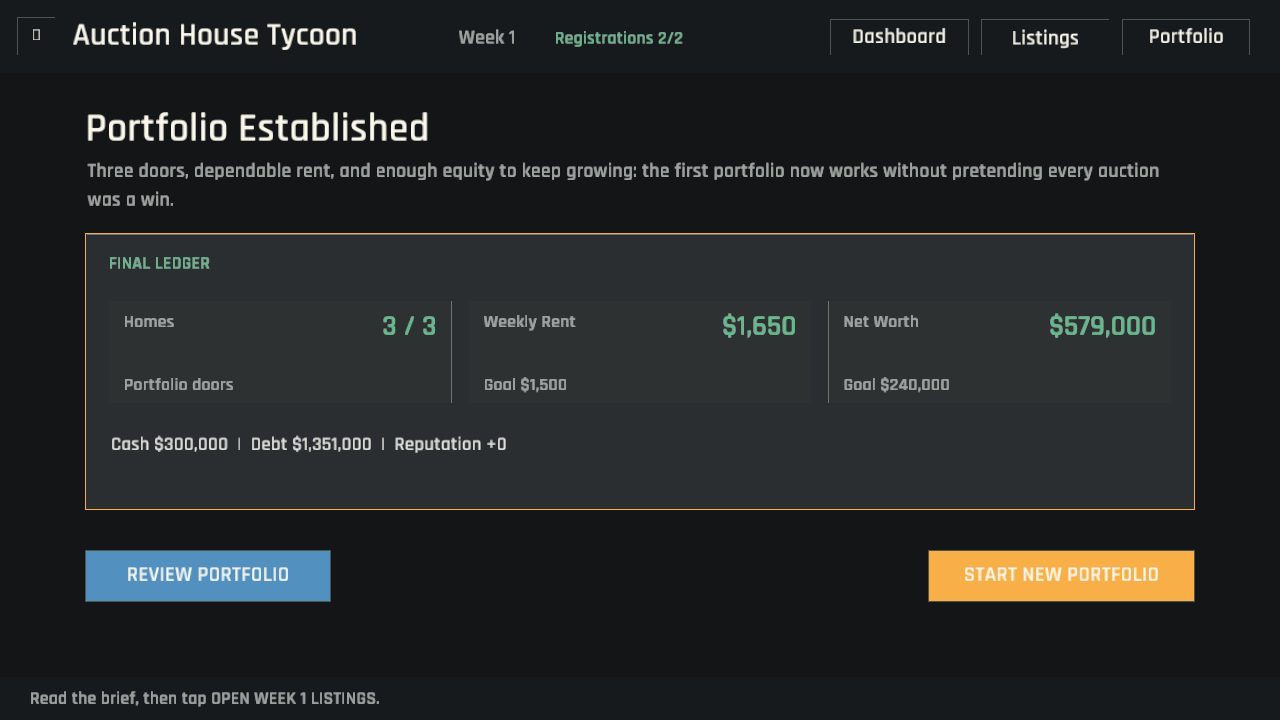
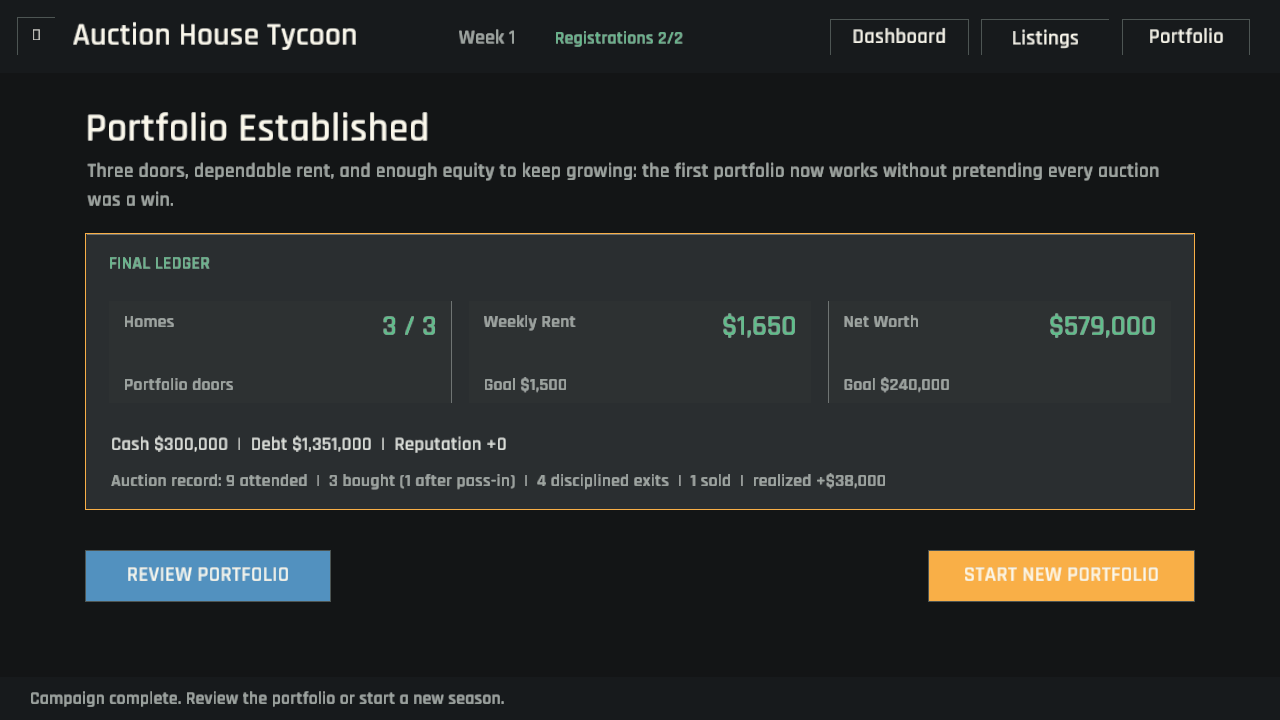
The ledger remembers every raised paddle and measured exit (career record)
The campaign previously judged only the final portfolio, leaving disciplined auction decisions invisible. The player now carries a save-compatible career record for attendance, purchases, post-auction deals, disciplined exits, completed sales, and realized profit. Dashboard and conclusion screens surface that record, with legacy-save tests and refreshed verification captures.

Changed region(s): [[0.0938, 0.6417, 0.6875, 0.6722], [0.0312, 0.9472, 0.4062, 0.9778]]

diff --git a/src/screens/dashboard.rs b/src/screens/dashboard.rs
@@ -32,7 +32,12 @@ impl App {
             TEXT_BRIGHT,
         );
         label(
-            "Choose the auction worth your attention.",
+            &format!(
+                "Season: {} attended  |  {} bought  |  {} disciplined exits",
+                self.player.career.auctions_attended,
+                self.player.career.homes_bought,
+                self.player.career.disciplined_walkaways
+            ),
             margin + 330.0,
             top + 288.0,
             16,
@@ -150,6 +155,21 @@ impl App {
             panel.y + 204.0,
             18,
             TEXT,
+        );
+        label(
+            &format!(
+                "Auction record: {} attended  |  {} bought ({} after pass-in)  |  {} disciplined exits  |  {} sold  |  realized {}",
+                self.player.career.auctions_attended,
+                self.player.career.homes_bought,
+                self.player.career.post_auction_buys,
+                self.player.career.disciplined_walkaways,
+                self.player.career.homes_sold,
+                signed_money(self.player.career.realized_profit)
+            ),
+            panel.x + 24.0,
+            panel.y + 238.0,
+            15,
+            TEXT_DIM,
         );
 
         if button(
@@ -269,6 +289,14 @@ impl App {
             14,
             TEXT_DIM,
         );
+    }
+}
+
+fn signed_money(amount: i64) -> String {
+    if amount >= 0 {
+        format!("+{}", format_money(amount))
+    } else {
+        format!("-{}", format_money(amount.abs()))
     }
 }
 

diff --git a/src/app.rs b/src/app.rs
@@ -338,6 +338,7 @@ impl App {
             self.research_level(property.id),
             self.walkaway_style,
         ));
+        self.player.career.auctions_attended += 1;
         self.auction_registrations -= 1;
         self.auctioned_property_ids.push(property.id);
         self.available_properties
@@ -386,6 +387,10 @@ impl App {
         );
         self.purchase_debrief = Some(debrief);
         self.player.properties.push(owned);
+        self.player.career.homes_bought += 1;
+        if auction.sold_post_auction {
+            self.player.career.post_auction_buys += 1;
+        }
         self.portfolio_index = self.player.properties.len() - 1;
         self.available_properties
             .retain(|property| property.id != auction.property.id);
@@ -481,6 +486,8 @@ impl App {
             self.player.debt -= owned.debt;
             self.player.reputation += result.reputation_delta;
             self.player.properties.remove(index);
+            self.player.career.homes_sold += 1;
+            self.player.career.realized_profit += result.profit;
             self.portfolio_index = self
                 .portfolio_index
                 .min(self.player.properties.len().saturating_sub(1));

diff --git a/src/model/player.rs b/src/model/player.rs
@@ -9,6 +9,8 @@ pub struct Player {
     pub debt: i64,
     pub properties: Vec<OwnedProperty>,
     pub reputation: i32,
+    #[serde(default)]
+    pub career: CareerRecord,
 }
 
 impl Player {
@@ -18,8 +20,19 @@ impl Player {
             debt: 0,
             properties: Vec::new(),
             reputation: 0,
+            career: CareerRecord::default(),
         }
     }
+}
+
+#[derive(Clone, Debug, Default, Deserialize, Serialize)]
+pub struct CareerRecord {
+    pub auctions_attended: u32,
+    pub homes_bought: u32,
+    pub disciplined_walkaways: u32,
+    pub post_auction_buys: u32,
+    pub homes_sold: u32,
+    pub realized_profit: i64,
 }
 
 #[derive(Clone, Debug, Deserialize, Serialize)]
@@ -116,3 +129,6 @@ impl OwnedProperty {
         self.rent_received - self.operating_spend
     }
 }
+
+#[cfg(test)]
+mod tests;

diff --git a/src/app/capture.rs b/src/app/capture.rs
@@ -90,8 +90,16 @@ impl App {
                     self.seed_owned_property(property);
                 }
                 self.player.cash = 300_000;
+                self.player.career.auctions_attended = 9;
+                self.player.career.homes_bought = 3;
+                self.player.career.disciplined_walkaways = 4;
+                self.player.career.post_auction_buys = 1;
+                self.player.career.homes_sold = 1;
+                self.player.career.realized_profit = 38_000;
                 self.campaign_status = CampaignStatus::Won;
                 self.screen = Screen::Dashboard;
+                self.status =
+                    "Campaign complete. Review the portfolio or start a new season.".to_string();
             }
             "title" => {}
             _ => {

diff --git a/src/model/player/tests.rs b/src/model/player/tests.rs
@@ -1,0 +1,27 @@
+use super::*;
+
+#[test]
+fn a_new_investor_starts_with_an_empty_career_record() {
+    let player = Player::new();
+
+    assert_eq!(player.career.auctions_attended, 0);
+    assert_eq!(player.career.homes_bought, 0);
+    assert_eq!(player.career.realized_profit, 0);
+}
+
+#[test]
+fn older_saves_gain_an_empty_career_record() {
+    let player: Player = serde_json::from_str(
+        r#"{
+            "cash": 184000,
+            "debt": 0,
+            "properties": [],
+            "reputation": 2
+        }"#,
+    )
+    .expect("old player save should remain readable");
+
+    assert_eq!(player.cash, 184_000);
+    assert_eq!(player.reputation, 2);
+    assert_eq!(player.career.auctions_attended, 0);
+}

diff --git a/src/screens/auction.rs b/src/screens/auction.rs
@@ -127,6 +127,7 @@ impl App {
                         && auction.current_bid > auction.player_walkaway_price
                     {
                         self.player.reputation += 1;
+                        self.player.career.disciplined_walkaways += 1;
                         self.status =
                             "Discipline reputation +1 for letting an overheated room win."
                                 .to_string();

diff --git a/src/sim/auction_events.rs b/src/sim/auction_events.rs
@@ -57,6 +57,7 @@ pub fn accept_post_auction_offer(auction: &mut Auction) -> bool {
     auction.current_bid = offer;
     auction.last_bidder = Some(BidderActor::Player);
     auction.status = Some(AuctionStatus::SoldToPlayer);
+    auction.sold_post_auction = true;
     push_log(
         auction,
         format!(

diff --git a/src/model/auction.rs b/src/model/auction.rs
@@ -88,6 +88,8 @@ pub struct Auction {
     pub vendor_bid_used: bool,
     #[serde(default)]
     pub last_room_read: Option<String>,
+    #[serde(default)]
+    pub sold_post_auction: bool,
 }
 
 impl Auction {

diff --git a/src/sim/auction_sim.rs b/src/sim/auction_sim.rs
@@ -86,6 +86,7 @@ pub fn create_auction(
         on_market_announced: false,
         vendor_bid_used: false,
         last_room_read: None,
+        sold_post_auction: false,
     }
 }
 

diff --git a/README.md b/README.md
@@ -13,6 +13,7 @@ Winning an auction is not automatically good. The real challenge is knowing what
 - Tap WAIT & READ ROOM to earn a current observation; the next bid makes that read stale.
 - Hear a legal vendor bid below the hidden reserve and the auctioneer's decisive on-market call.
 - Negotiate a visible vendor counteroffer after a pass-in, or leave the private deal untouched.
+- Build a season record that credits disciplined exits alongside purchases and profitable sales.
 - Renovate, place or end tenancies, collect rent, handle scheduled maintenance, hold, or sell purchased properties.
 - Track every property, cash, debt, rent, weekly cashflow, fees, repairs, and net worth.
 

diff --git a/GAME_DESIGN.md b/GAME_DESIGN.md
@@ -39,6 +39,7 @@ The three requirements prevent a single degenerate strategy. Cheap but poor asse
 - Rent supports cashflow and borrowing capacity, but debt, ownership costs, and scheduled maintenance remain visible.
 - Maintenance checks occur on a disclosed schedule, reduce collected rent until repaired, and never arrive as uncontrolled random punishment.
 - Walking away preserves capital and can build discipline reputation when a rival overheats.
+- The season ledger values attendance, settled purchases, disciplined exits, post-auction buys, completed sales, and realized profit.
 
 ## Content structure
 
